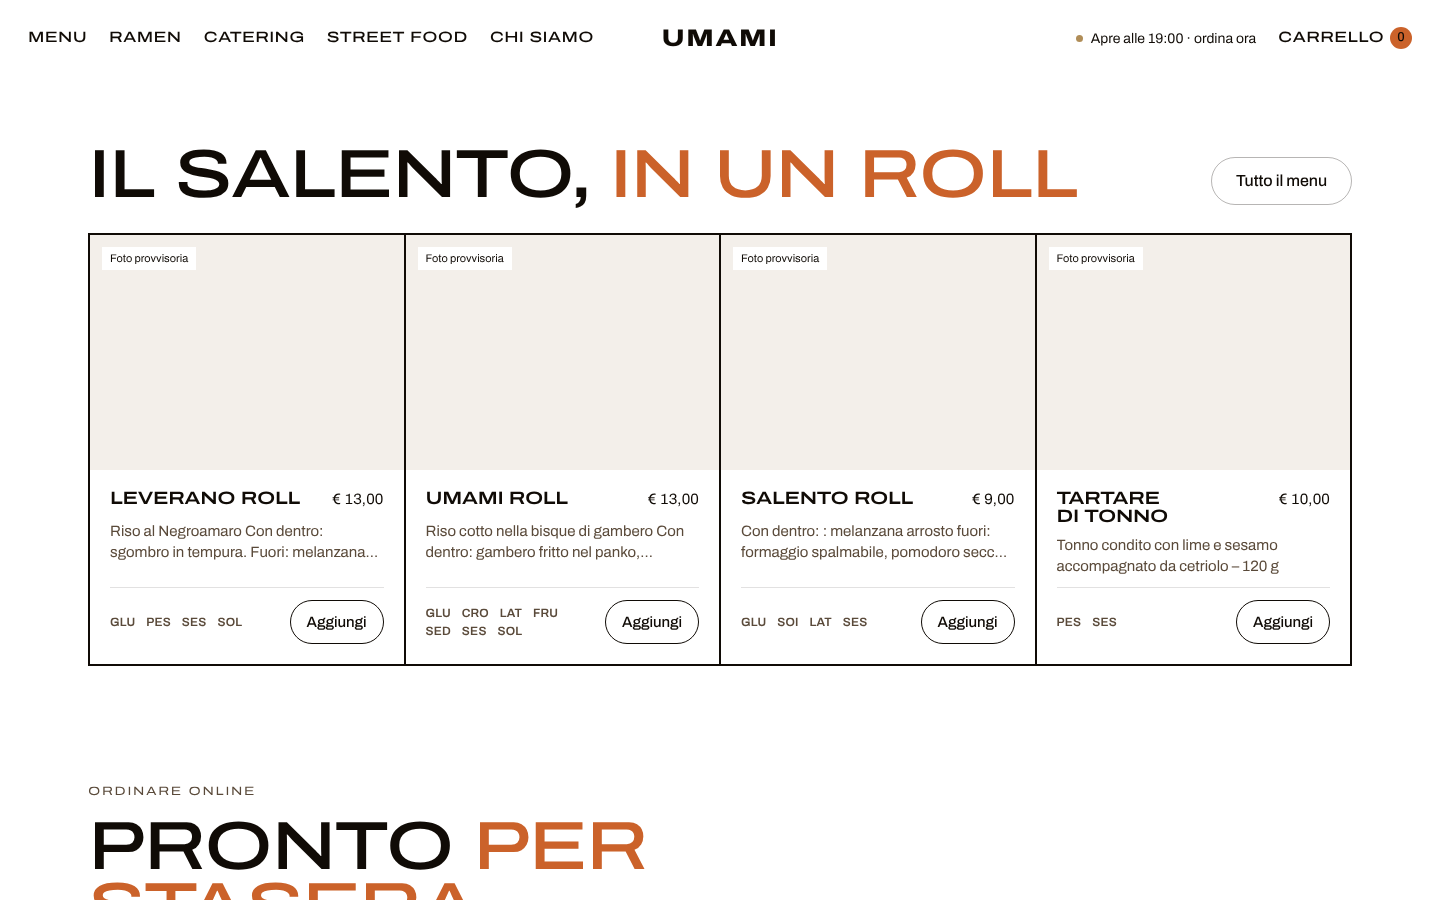
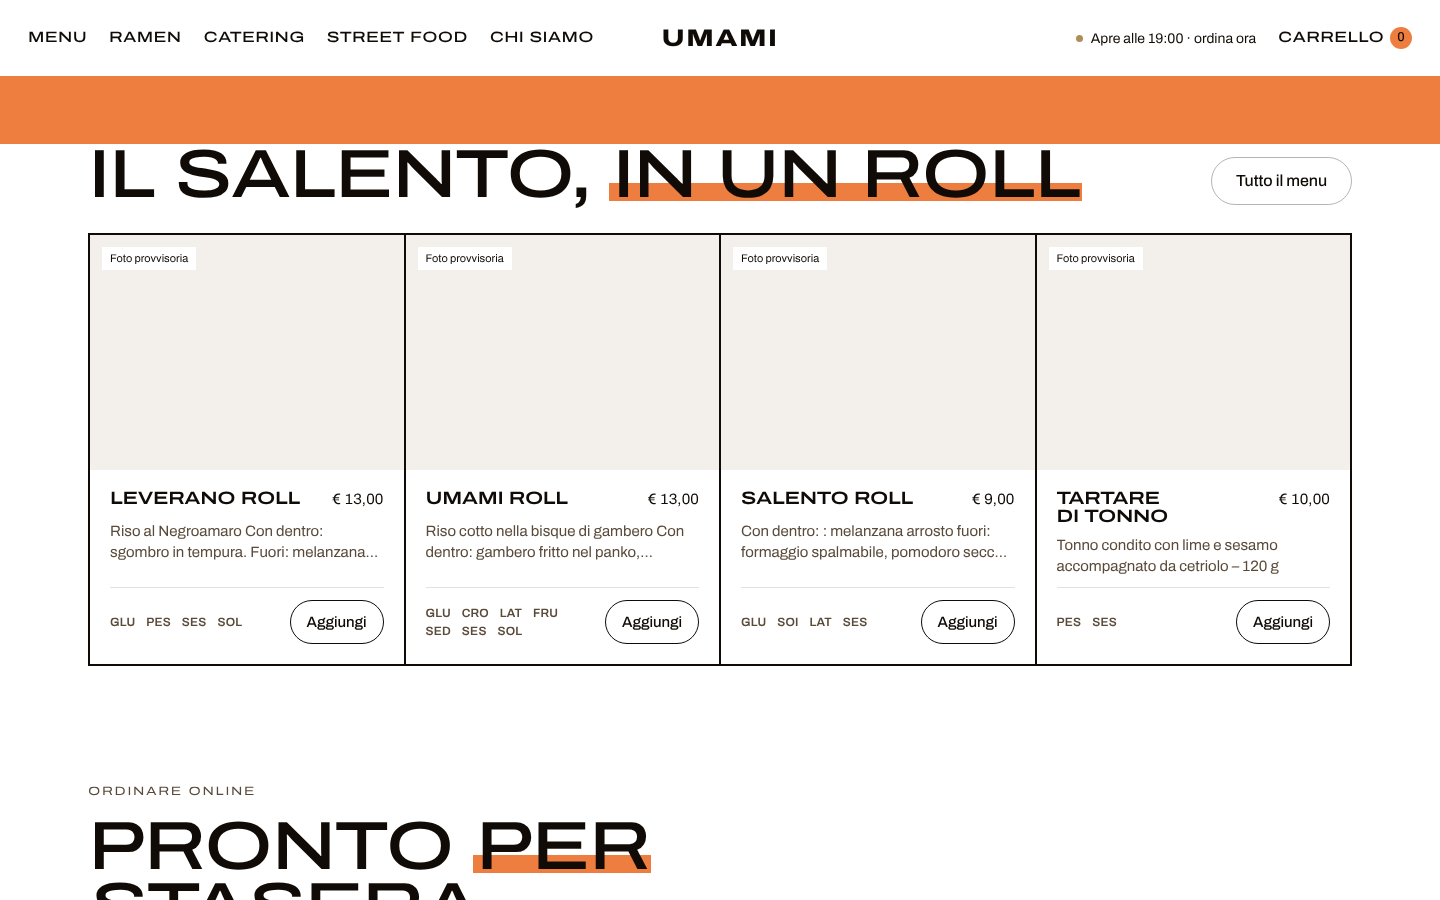
v1.1: arancione chiaro #EE7E3F usato come fondo con testo nero
Sezione Chi siamo su arancione pieno, accenti dei titoli come fascia
arancione sotto la parola, pulsanti e contatori arancioni con testo nero.

Claude-Session: https://claude.ai/code/session_01LSCnPxq5ZLnrvnRqcxrqF5

Changed region(s): [[0.0, 0.0311, 1.0, 0.2489], [0.0625, 0.9022, 0.4688, 1.0]]

diff --git a/assets/css/v7.css b/assets/css/v7.css
@@ -235,3 +235,23 @@ body::before { display: none; }
 /* titoli grandi: arancione pieno (3,95:1 sul bianco, sufficiente per testo grande) */
 h1 em, h2 em, .t-display em, .t-xxl em, .t-xl em, .m-testa h1 em, .v7-sez-testa h2 em { color: var(--c-corallo); }
 .tema-lacca h2 em, .tema-brace h2 em, .tema-inchiostro h2 em { color: var(--c-corallo-chiaro); }
+
+/* =========================================================================
+   v1.1 · ARANCIONE CHIARO COME FONDO, NON COME TESTO
+   Come nei siti premiati (Sakazuki, Bucks Sauce): il colore riempie superfici,
+   il testo resta nero. Sul bianco l'accento nei titoli è una fascia arancione
+   sotto la parola, il testo resta nero e leggibile.
+   ========================================================================= */
+h1 em, h2 em, .t-display em, .t-xxl em, .t-xl em, .m-testa h1 em, .v7-sez-testa h2 em, .h-dichiarazione__frase em, .v7-gigante em {
+  color: inherit; background: linear-gradient(transparent 62%, var(--c-corallo) 62%, var(--c-corallo) 86%, transparent 86%);
+  -webkit-box-decoration-break: clone; box-decoration-break: clone; padding-inline: .04em; }
+.tema-lacca h2 em, .tema-brace h2 em, .tema-inchiostro h2 em { color: var(--c-corallo); background: none; padding: 0; }
+/* Colonna "Chi siamo" su fondo arancione pieno */
+.v7-colonna { background: var(--c-corallo); color: var(--c-inchiostro); max-width: none; margin: 0; padding-inline: var(--gutter); }
+.v7-colonna .v7-gigante em { background: none; color: var(--c-inchiostro); padding: 0; }
+.v7-colonna .u-btn { --btn-bg: var(--c-inchiostro); --btn-bd: var(--c-inchiostro); --btn-fg: #fff; }
+/* Pulsanti segnale e contatori: arancione con testo nero */
+.u-btn--segnale, .u-barra a.u-barra__cta { --btn-bg: var(--c-corallo); --btn-bd: var(--c-corallo); --btn-fg: var(--c-inchiostro); }
+/* Passi: numeri neri, filo arancione spesso */
+.h-passi li { border-top: 4px solid var(--c-corallo); }
+.h-passi li::before { color: var(--c-inchiostro); }

diff --git a/assets/css/tokens.css b/assets/css/tokens.css
@@ -19,9 +19,9 @@
   --c-lacca-2:          #3D1611;  /* riflesso della lacca */
   --c-ottone:           #B08D57;  /* filetti e dettagli metallici · mai testo su carta */
   --c-ottone-chiaro:    #C9A877;  /* ottone su fondi scuri · 8:1 su lacca */
-  --c-corallo:          #CB622A;  /* v0.9 ARANCIONE UMAMI (vicino a #DD6727 del sito, un filo meno saturo): titoli grandi su crema 3.2:1, testo nero sopra 5:1 */
+  --c-corallo:          #EE7E3F;  /* v1.1 ARANCIONE UMAMI chiaro: si usa come FONDO con testo nero sopra (7,2:1), mai come testo sul bianco */
   --c-corallo-scuro:    #974A21;  /* testo piccolo su crema 5.1:1, pulsanti con testo bianco 6.3:1 */
-  --c-corallo-chiaro:   #D97945;  /* sui fondi rame/neri 4.9–6.3:1 */
+  --c-corallo-chiaro:   #EE7E3F;  /* testo arancione solo sui fondi scuri (7:1) */
   --c-bianco:           #FFFFFF;
   --c-successo:         #2F6B3B;
   --c-attenzione:       #8A5A00;
